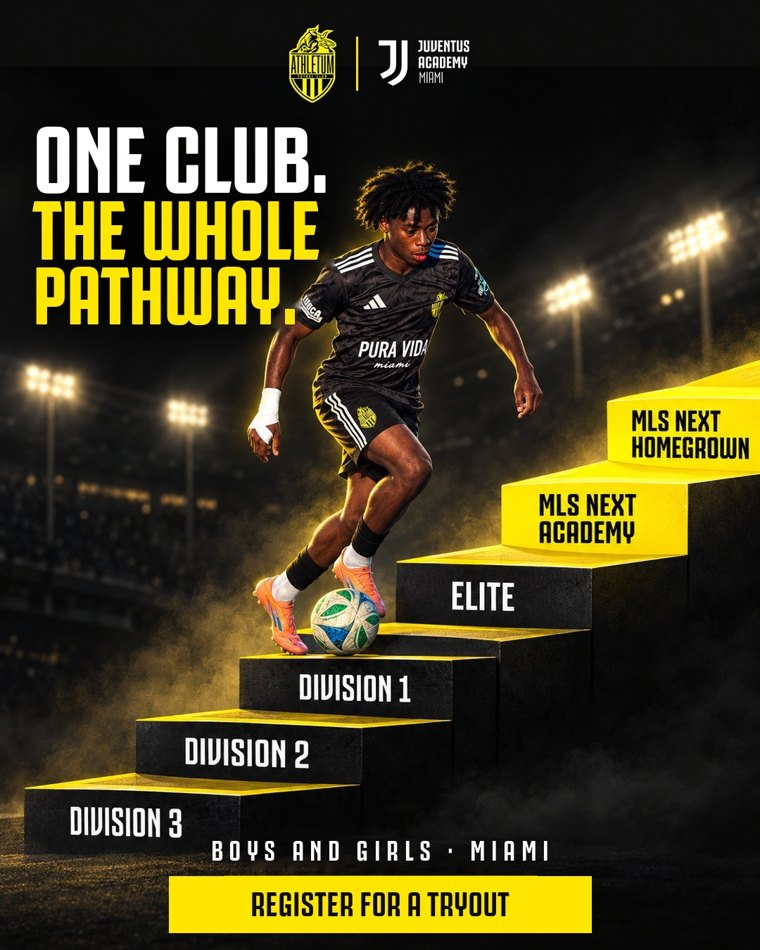
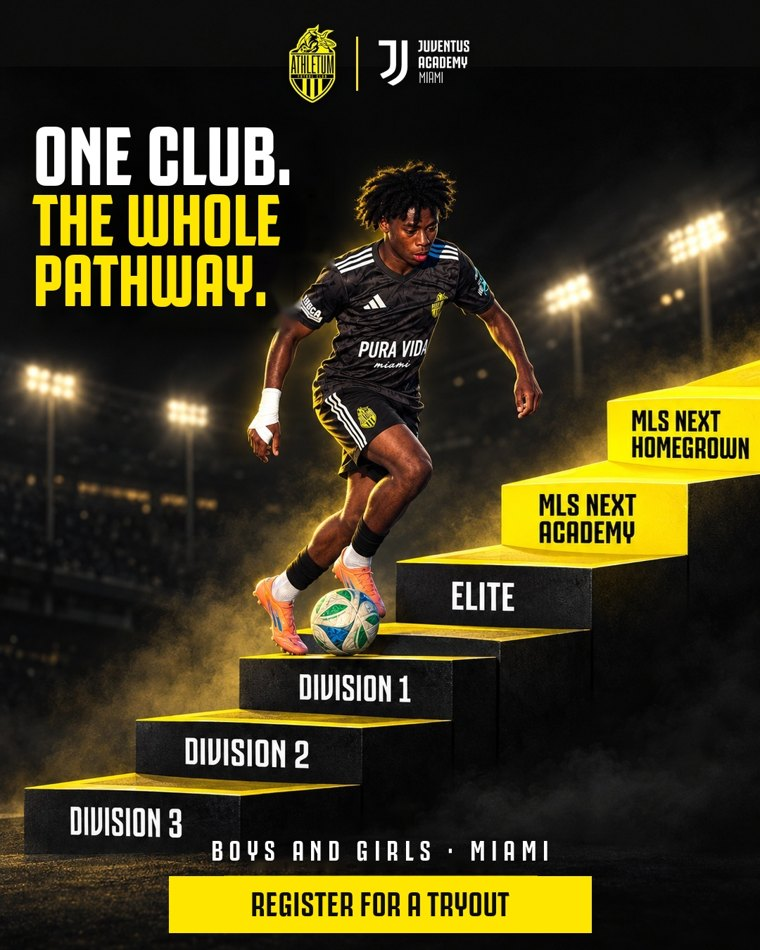
STATIC-3: titular más chico, separado del jugador

Changed region(s): [[0.0303, 0.1221, 0.4539, 0.3663]]

diff --git a/index.html b/index.html
@@ -66,8 +66,8 @@ footer{margin-top:40px;color:var(--muted);font-size:14px;border-top:1px solid va
 <article class="ad base" data-id="S1">
   <header><span class="num">1</span><h3>STATIC-1 · HERO &quot;Your next level starts here&quot;</h3><span class="estado" data-estado>Pieza aprobada por David</span></header>
   <div class="cuerpo">
-    <div class="media"><img src="assets/S1.jpg?v=6" alt="STATIC-1 · HERO &quot;Your next level starts here&quot;" loading="lazy">
-      <a class="dl" href="assets/S1_1080.jpg?v=6" target="_blank" rel="noopener">Ver a tamaño real</a>
+    <div class="media"><img src="assets/S1.jpg?v=7" alt="STATIC-1 · HERO &quot;Your next level starts here&quot;" loading="lazy">
+      <a class="dl" href="assets/S1_1080.jpg?v=7" target="_blank" rel="noopener">Ver a tamaño real</a>
       <p class="nota-pieza">Se mantiene (David, 13-10); textos reescritos con la misma letra gruesa de los demás anuncios. Falta aprobar el texto.</p></div>
     <div class="copy">
       <div class="lbl">Texto principal · inglés <span class="hint">· se puede editar</span></div>
@@ -89,8 +89,8 @@ footer{margin-top:40px;color:var(--muted);font-size:14px;border-top:1px solid va
 </article><article class="ad pend" data-id="S3">
   <header><span class="num">2</span><h3>STATIC-3 · PATHWAY &quot;One club. The whole pathway.&quot;</h3><span class="estado" data-estado>Nueva · por aprobar</span></header>
   <div class="cuerpo">
-    <div class="media"><img src="assets/S3.jpg?v=6" alt="STATIC-3 · PATHWAY &quot;One club. The whole pathway.&quot;" loading="lazy">
-      <a class="dl" href="assets/S3_1080.jpg?v=6" target="_blank" rel="noopener">Ver a tamaño real</a>
+    <div class="media"><img src="assets/S3.jpg?v=7" alt="STATIC-3 · PATHWAY &quot;One club. The whole pathway.&quot;" loading="lazy">
+      <a class="dl" href="assets/S3_1080.jpg?v=7" target="_blank" rel="noopener">Ver a tamaño real</a>
       <p class="nota-pieza">Rediseño con ChatGPT: escalera diagonal con los 6 niveles reales (estilo de corte diagonal del banco de Pinterest). Jugador real del MLS NEXT Fest.</p></div>
     <div class="copy">
       <div class="lbl">Texto principal · inglés <span class="hint">· se puede editar</span></div>
@@ -112,8 +112,8 @@ footer{margin-top:40px;color:var(--muted);font-size:14px;border-top:1px solid va
 </article><article class="ad pend" data-id="S4">
   <header><span class="num">3</span><h3>STATIC-4 · HOW A TRYOUT WORKS</h3><span class="estado" data-estado>Nueva · por aprobar</span></header>
   <div class="cuerpo">
-    <div class="media"><img src="assets/S4.jpg?v=6" alt="STATIC-4 · HOW A TRYOUT WORKS" loading="lazy">
-      <a class="dl" href="assets/S4_1080.jpg?v=6" target="_blank" rel="noopener">Ver a tamaño real</a>
+    <div class="media"><img src="assets/S4.jpg?v=7" alt="STATIC-4 · HOW A TRYOUT WORKS" loading="lazy">
+      <a class="dl" href="assets/S4_1080.jpg?v=7" target="_blank" rel="noopener">Ver a tamaño real</a>
       <p class="nota-pieza">Rediseño con ChatGPT: tres franjas tipo &quot;Matchday&quot; (el mismo formato que se aprobó en Las Vegas), un jugador real por paso.</p></div>
     <div class="copy">
       <div class="lbl">Texto principal · inglés <span class="hint">· se puede editar</span></div>
@@ -135,8 +135,8 @@ footer{margin-top:40px;color:var(--muted);font-size:14px;border-top:1px solid va
 </article><article class="ad pend" data-id="S5">
   <header><span class="num">4</span><h3>STATIC-5 · NUEVO ENFOQUE &quot;From Miami to Italy&quot;</h3><span class="estado" data-estado>Nueva · por aprobar</span></header>
   <div class="cuerpo">
-    <div class="media"><img src="assets/S5.jpg?v=6" alt="STATIC-5 · NUEVO ENFOQUE &quot;From Miami to Italy&quot;" loading="lazy">
-      <a class="dl" href="assets/S5_1080.jpg?v=6" target="_blank" rel="noopener">Ver a tamaño real</a>
+    <div class="media"><img src="assets/S5.jpg?v=7" alt="STATIC-5 · NUEVO ENFOQUE &quot;From Miami to Italy&quot;" loading="lazy">
+      <a class="dl" href="assets/S5_1080.jpg?v=7" target="_blank" rel="noopener">Ver a tamaño real</a>
       <p class="nota-pieza">Enfoque nuevo: la experiencia internacional. Collage de papel rasgado (banco de Pinterest) con fotos reales del viaje a Italia de la temporada 2025-26 (Juventus en Vinovo y Lazio).</p></div>
     <div class="copy">
       <div class="lbl">Texto principal · inglés <span class="hint">· se puede editar</span></div>
